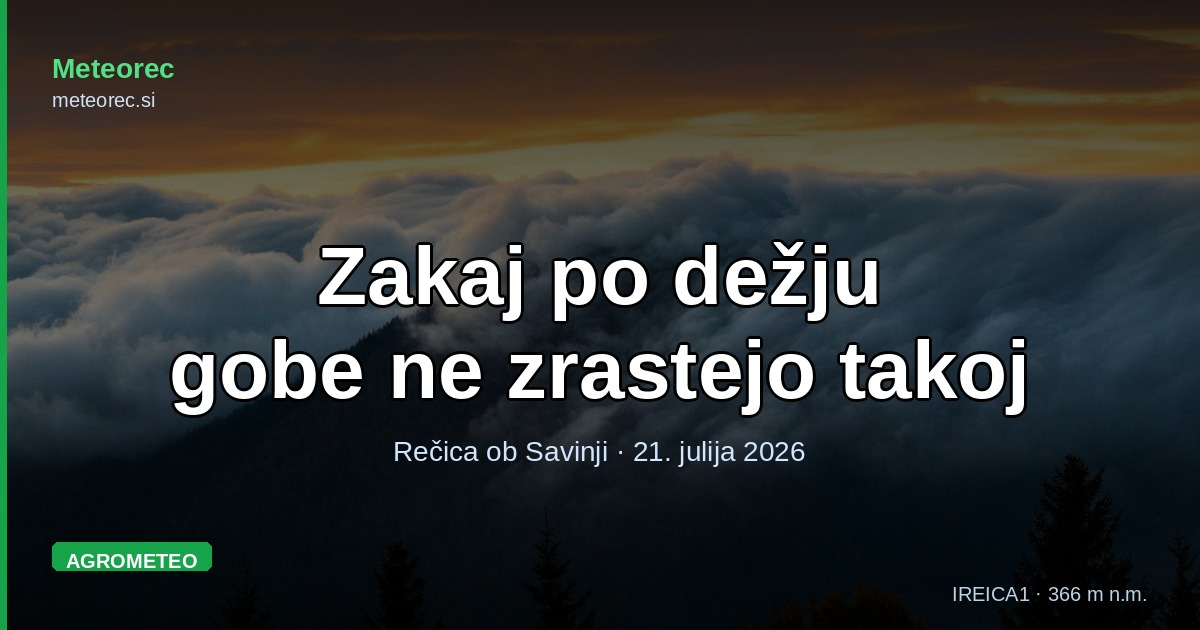
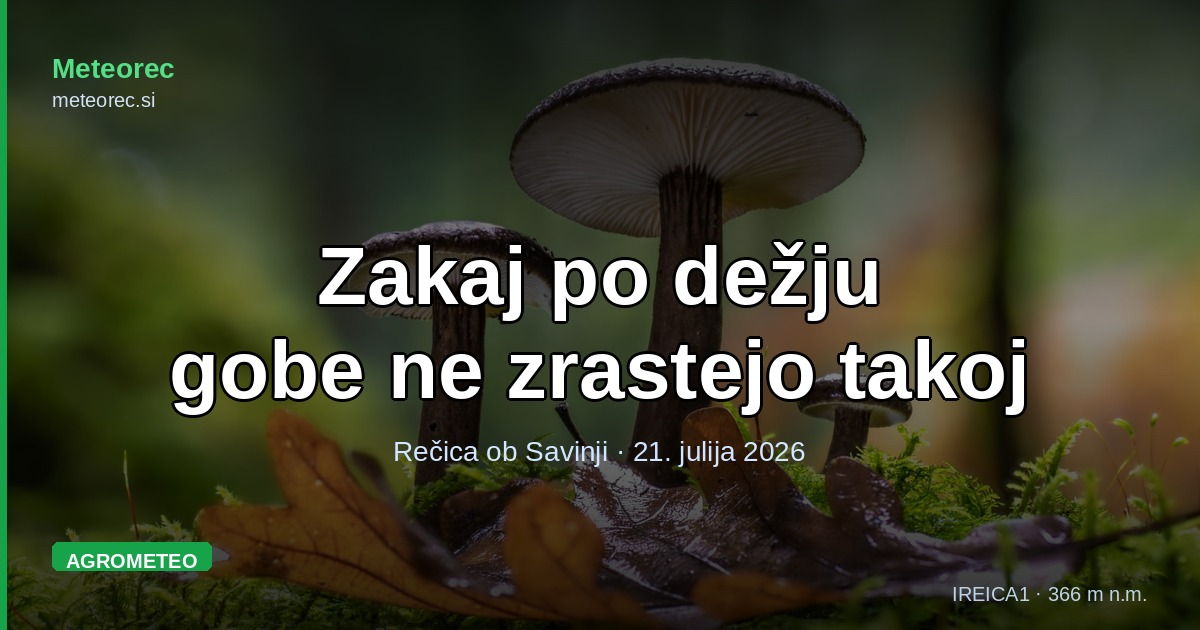
Dodaj lastne fotografije v članek o zamiku rasti gob
Dve Filipovi fotografiji (goba v mahu z listjem, muha na majhni gobici)
vključeni v telo članka kot .post-photo, OG slika za deljenje
zamenjana s tretjo lastno fotografijo namesto stock ozadja.

Claude-Session: https://claude.ai/code/session_01UkFL8Xbp3xZzcbQr2dLoCP

diff --git a/blog/zakaj-po-dezju-gobe-ne-zrastejo-takoj.html b/blog/zakaj-po-dezju-gobe-ne-zrastejo-takoj.html
@@ -119,10 +119,20 @@
       <div class="mini-stat"><div class="ms-label">Indeks pred dežjem</div><div class="ms-val ms-low">7 %</div><div class="ms-sub">7. julij · BREZ</div></div>
     </div>
 
+    <figure class="post-photo">
+      <img src="/img/blog/zakaj-po-dezju-gobe-ne-zrastejo-takoj/foto-1.jpg" alt="Trije gobji klobučki v mahu med hrastovim listjem po dežju." loading="lazy">
+      <figcaption>Klobučki se prikažejo šele, ko je micelij pod mahom dovolj dolgo dobival vlago. Foto: Filip Eremita.</figcaption>
+    </figure>
+
     <h2 id="kaj-se-dogaja-pod-zemljo">Kaj se dogaja pod zemljo v tistih dneh</h2>
     <p>Goba, ki jo naberemo, je le plodno telo — začasen "sadež" veliko večjega organizma, ki živi pod zemljo skoraj ves čas: <strong>micelija</strong>, mreže tankih niti, razrasle po tleh in pogosto povezane s koreninami dreves (mikoriza). Jurček, lisička in večina drugih gob, ki jih iščemo v Zgornji Savinjski dolini, so mikorizne vrste — micelij drevesu daje vodo in minerale, drevo pa njemu sladkorje iz fotosinteze.</p>
     <p>Ko dež navlaži izsušena tla, se micelij najprej samo napije vode in obnovi presnovo, ki jo je suša zaustavila. Šele nato lahko začne graditi <strong>primordije</strong> — drobne zasnove prihodnjih gob, komaj vidne z lupo. Te morajo zrasti do polne velikosti klobučka, kar je pri gobah presenetljivo počasi: gre za mehansko širjenje celic z vodo (turgor), ne za delitev tkiva kot pri rastlinah. Cel ta proces — od namočenih tal do gobe, ki jo je vredno nabrati — traja pri jurčku in lisički v povprečju <strong>7 do 14 dni</strong>, odvisno od temperature tal in vrste.</p>
     <p>Poleg vode mora biti primerna tudi <strong>temperatura tal</strong>, ne zraka. Tla se segrevajo in ohlajajo veliko počasneje kot zrak, zato en sam vroč ali hladen dan skoraj nič ne spremeni — šteje večdnevno povprečje na globini nekaj centimetrov. Prehiter ali prepočasen dan ne pomeni nič; šteje trend v tleh.</p>
+
+    <figure class="post-photo">
+      <img src="/img/blog/zakaj-po-dezju-gobe-ne-zrastejo-takoj/foto-2.jpg" alt="Mala goba komaj velikosti novčiča, na kateri sedi muha, sredi gozda." loading="lazy">
+      <figcaption>Prve, komaj centimeter velike gobice po dežju — še dni pred njimi na istem mestu ni bilo ničesar. Foto: Filip Eremita.</figcaption>
+    </figure>
 
     <h2 id="primer-iz-letosnjega-julija">Primer iz letošnjega julija: od suše do 83 %</h2>
     <p>Konec junija je Zgornjo Savinjsko dolino prizadel vročinski val s štirinajstimi zaporednimi dnevi nad 30 °C, pred tem pa devetdnevna suša. Tla so se temeljito izsušila. Ko smo 7. julija pisali o <a href="/blog/gobarska-sezona-julij-2026-kje-nabirati.html" style="color:#16a34a">gobarski sezoni v dolini</a>, je bil indeks za Rečico ob Savinji le 7 % — brez obrodnosti. Zadnji izdatnejši dež je bil takrat star že teden dni in premajhen (1,3 mm), da bi karkoli sprožil.</p>